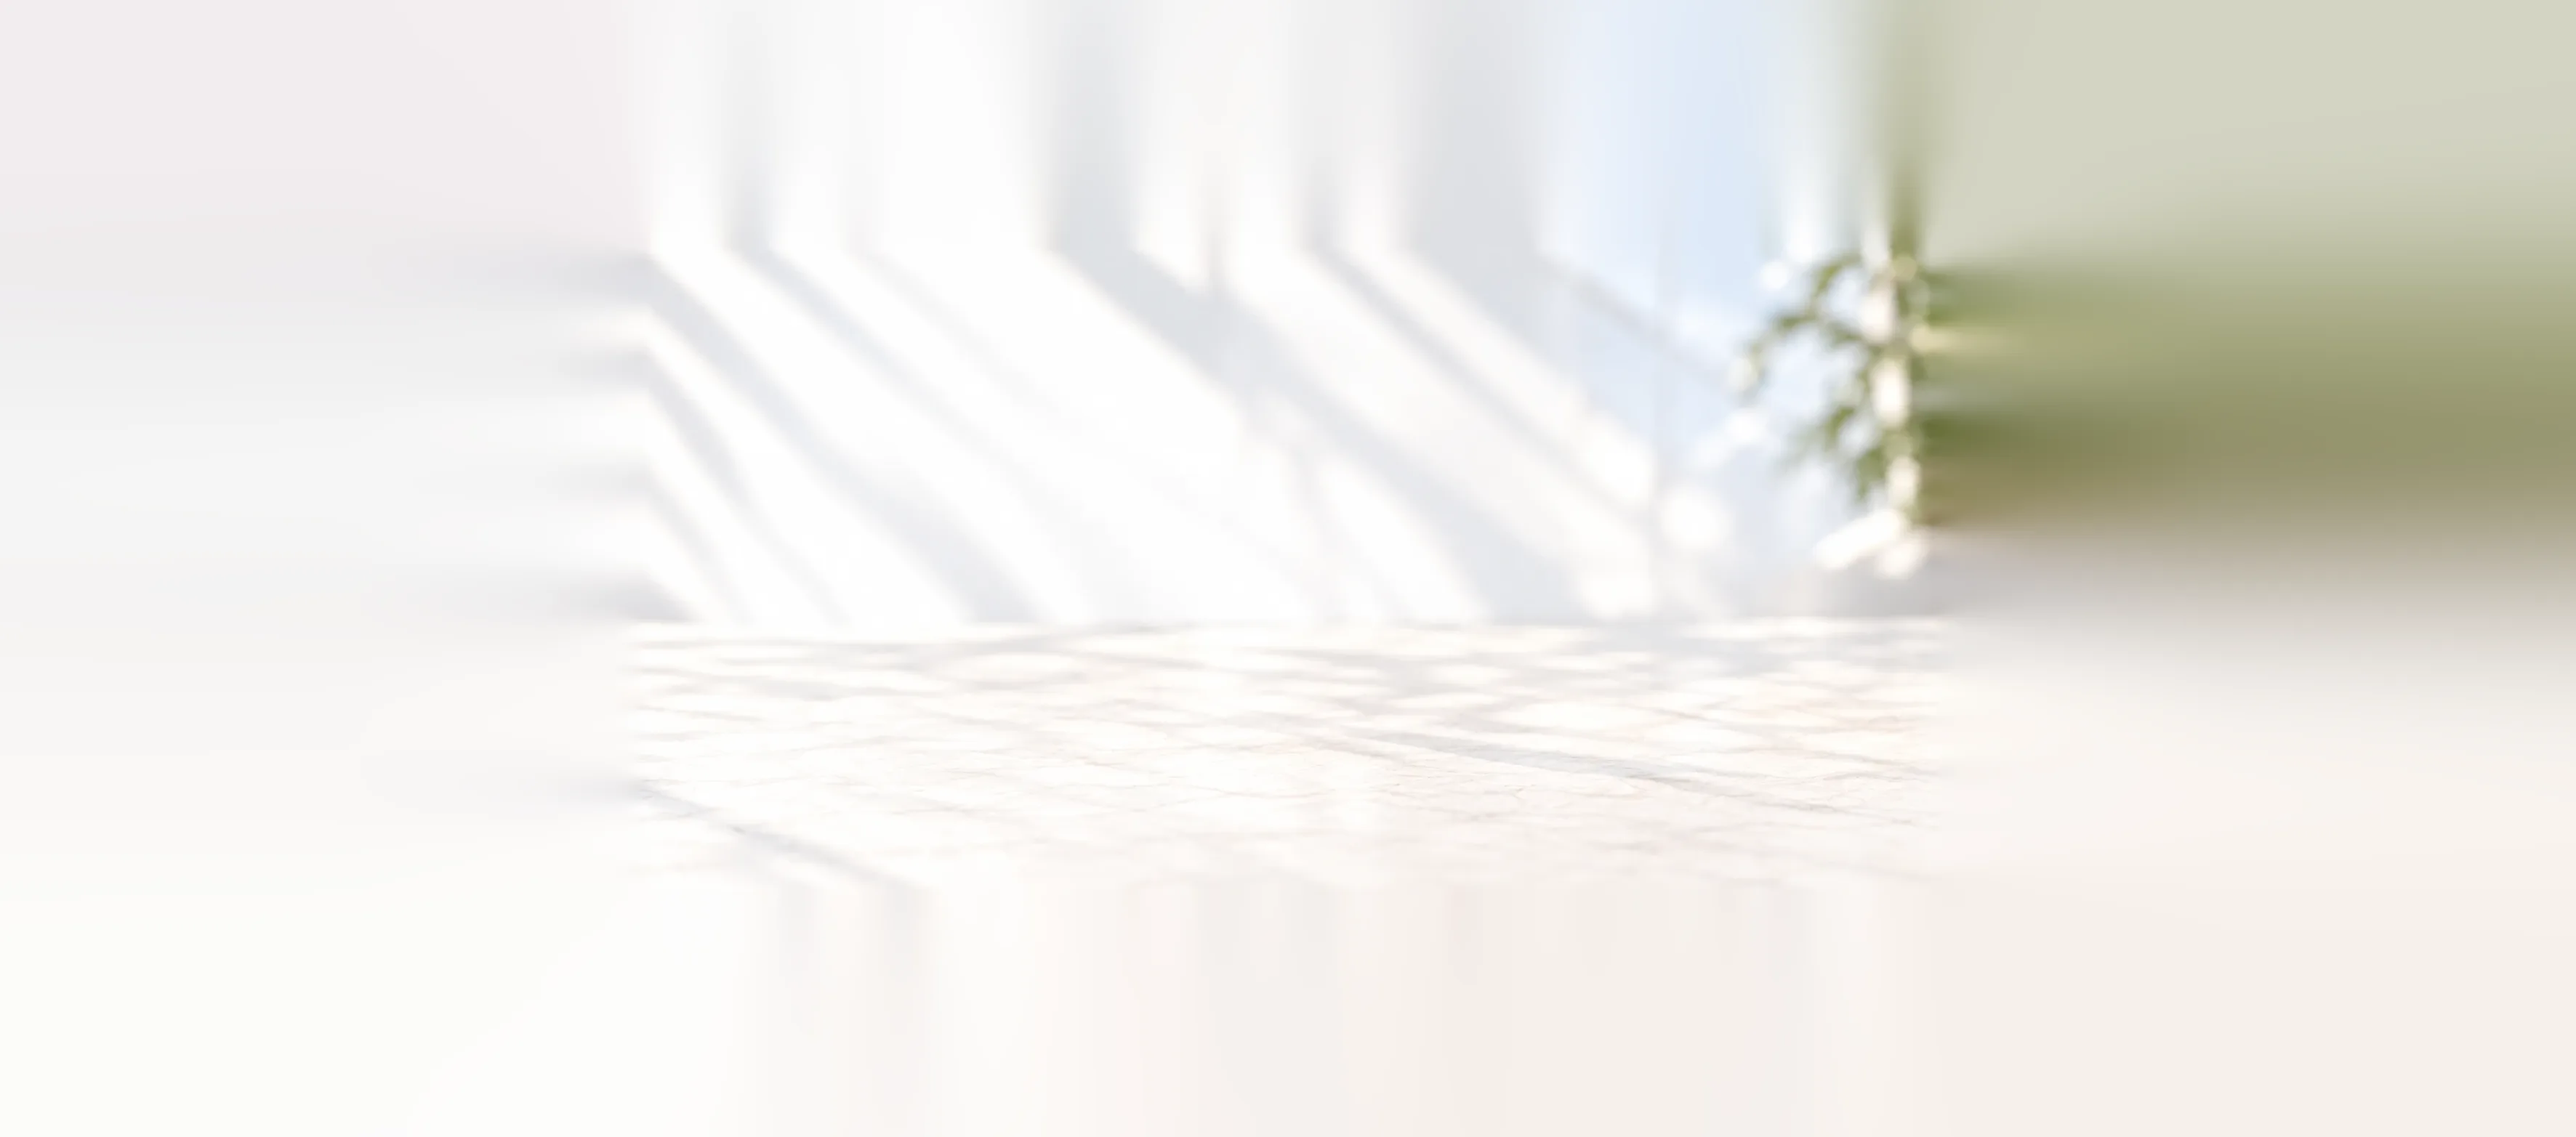
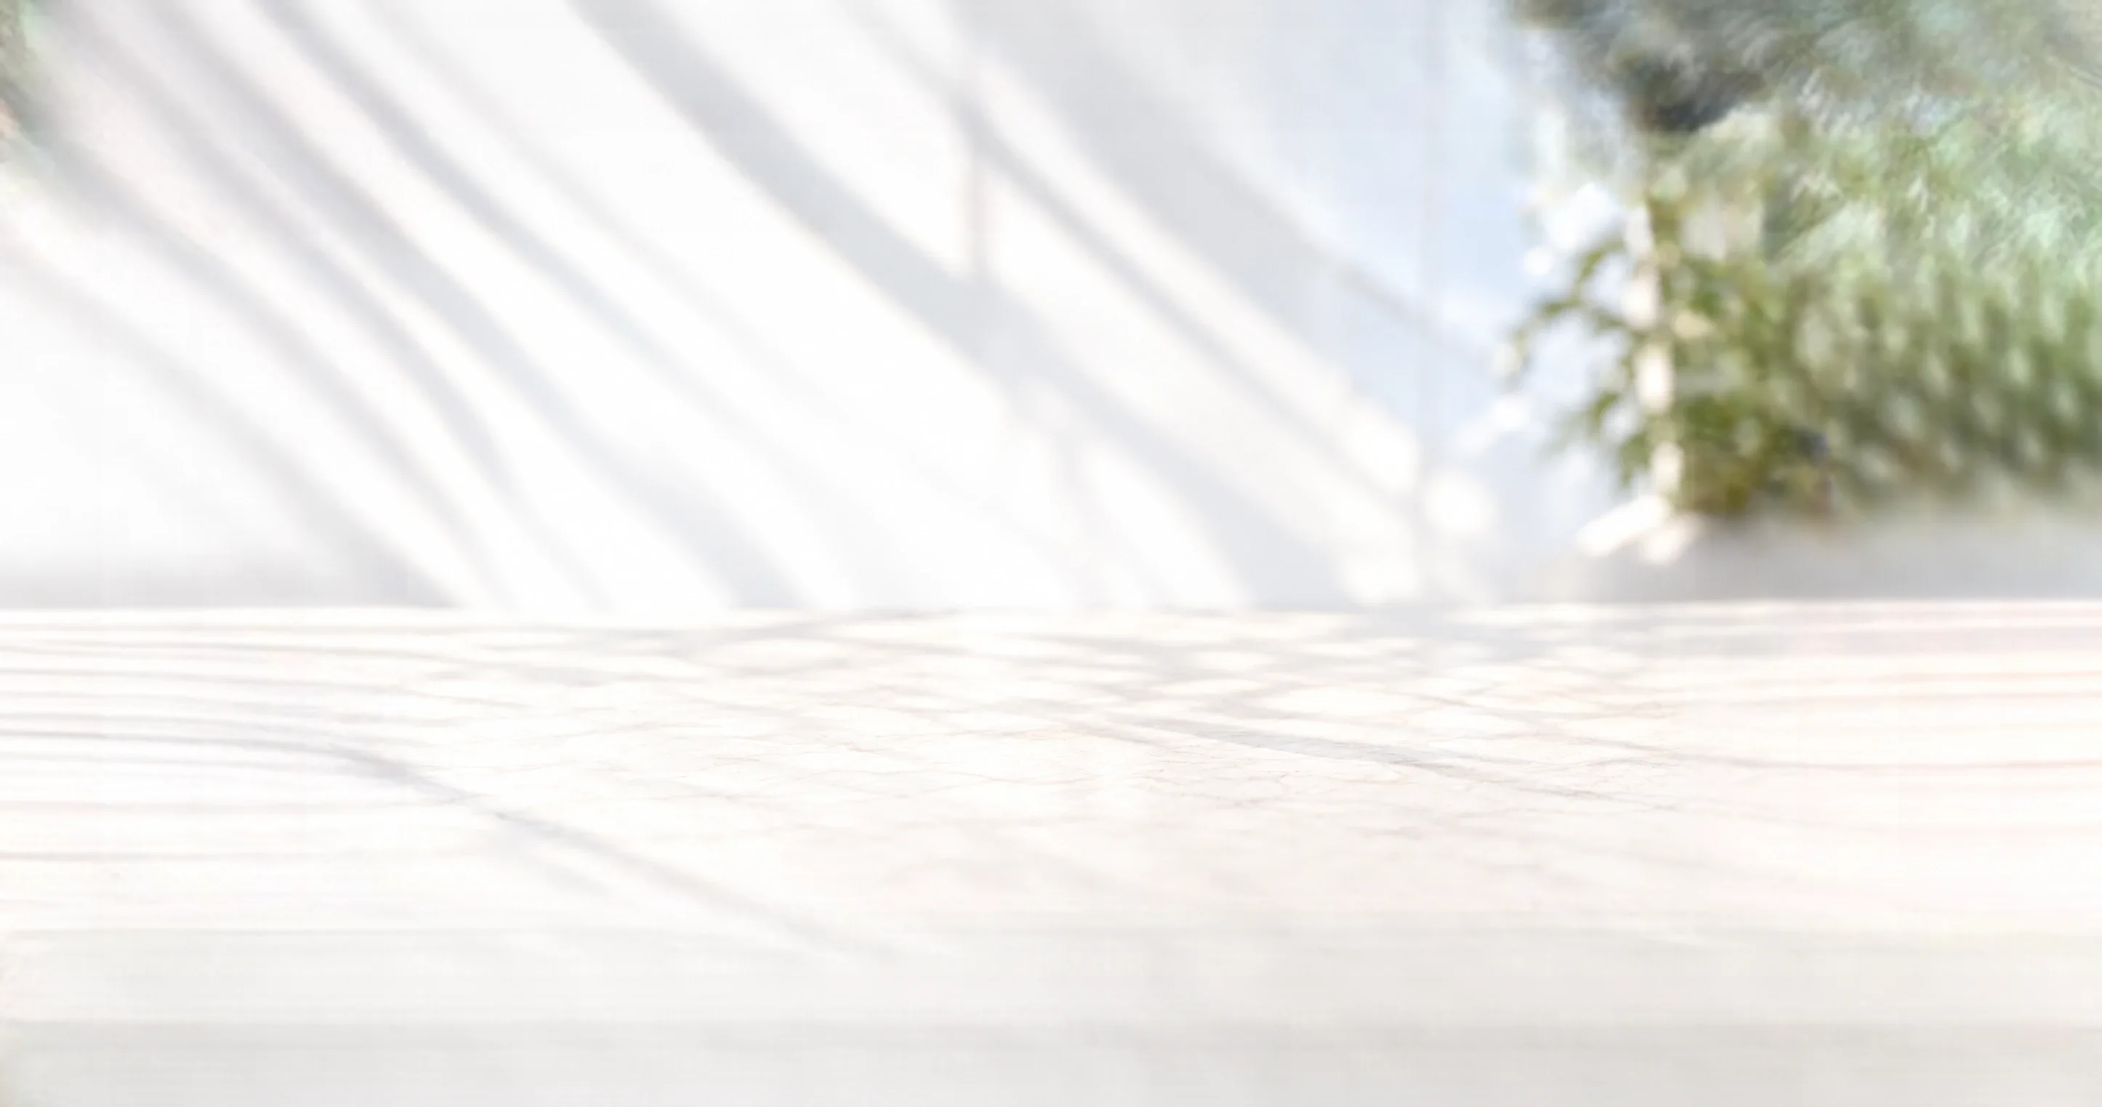
Hero slide 1: outpaint the room past the artwork instead of stretching its edge, so the side strips show real wall, floor and plant

diff --git a/components/home/HeroSlideshow.module.css b/components/home/HeroSlideshow.module.css
@@ -549,8 +549,8 @@
 
 .productCanvas { background: #f4f4f2 url("../../assets/hero/ip6-slide-background.webp") center / cover no-repeat; overflow: hidden; }
 /* The room behind the artwork, at the artwork's own scale and position so it continues past the artwork's faded edges without a seam.
-   The image is ip6-slide-background.webp (1.024x the artwork scale, offset -3px,-2px) extended 885px left and right and 339px top and bottom. */
-.productArtwork::before { content: ""; position: absolute; z-index: -1; left: -50.179%; top: -40.223%; width: 200.279%; height: 184.627%; background: url("../../assets/hero/ip6-slide-bg-wide.webp") center / 100% 100% no-repeat; pointer-events: none; }
+   The image is ip6-slide-background.webp (1.024x the artwork scale, offset -3px,-2px) extended 560px left and right and 320px top and bottom (outpainted with LaMa). */
+.productArtwork::before { content: ""; position: absolute; z-index: -1; left: -31.812%; top: -37.982%; width: 163.434%; height: 179.79%; background: url("../../assets/hero/ip6-slide-bg-wide.webp") center / 100% 100% no-repeat; pointer-events: none; }
 .mobileProduct { display: none; }
 
 @media (max-width: 900px) and (orientation: portrait) {

diff --git a/theme/assets/ip6-hero.css b/theme/assets/ip6-hero.css
@@ -557,8 +557,8 @@
 
 .ih-productCanvas { background: #f4f4f2 var(--ih-bg) center / cover no-repeat; overflow: hidden; }
 /* The room behind the artwork, at the artwork's own scale and position so it continues past the artwork's faded edges without a seam.
-   The image is ip6-slide-background.webp (1.024x the artwork scale, offset -3px,-2px) extended 885px left and right and 339px top and bottom. */
-.ih-productArtwork::before { content: ""; position: absolute; z-index: -1; left: -50.179%; top: -40.223%; width: 200.279%; height: 184.627%; background: var(--ih-bg-wide) center / 100% 100% no-repeat; pointer-events: none; }
+   The image is ip6-slide-background.webp (1.024x the artwork scale, offset -3px,-2px) extended 560px left and right and 320px top and bottom (outpainted with LaMa). */
+.ih-productArtwork::before { content: ""; position: absolute; z-index: -1; left: -31.812%; top: -37.982%; width: 163.434%; height: 179.79%; background: var(--ih-bg-wide) center / 100% 100% no-repeat; pointer-events: none; }
 .ih-mobileProduct { display: none; }
 
 @media (max-width: 900px) and (orientation: portrait) {
